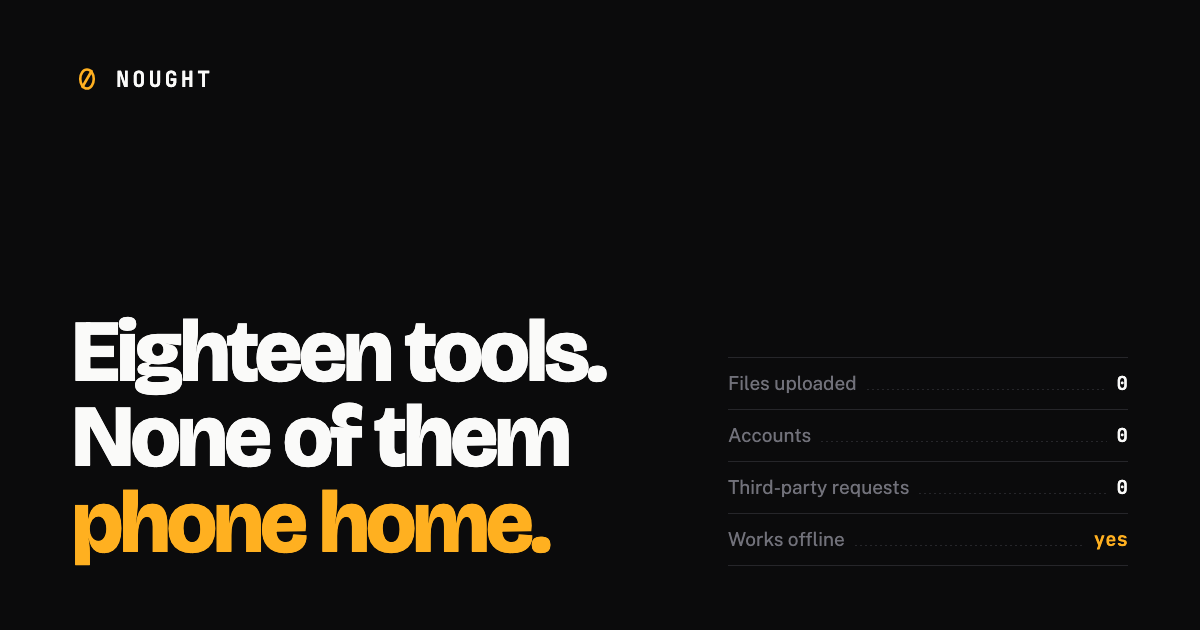
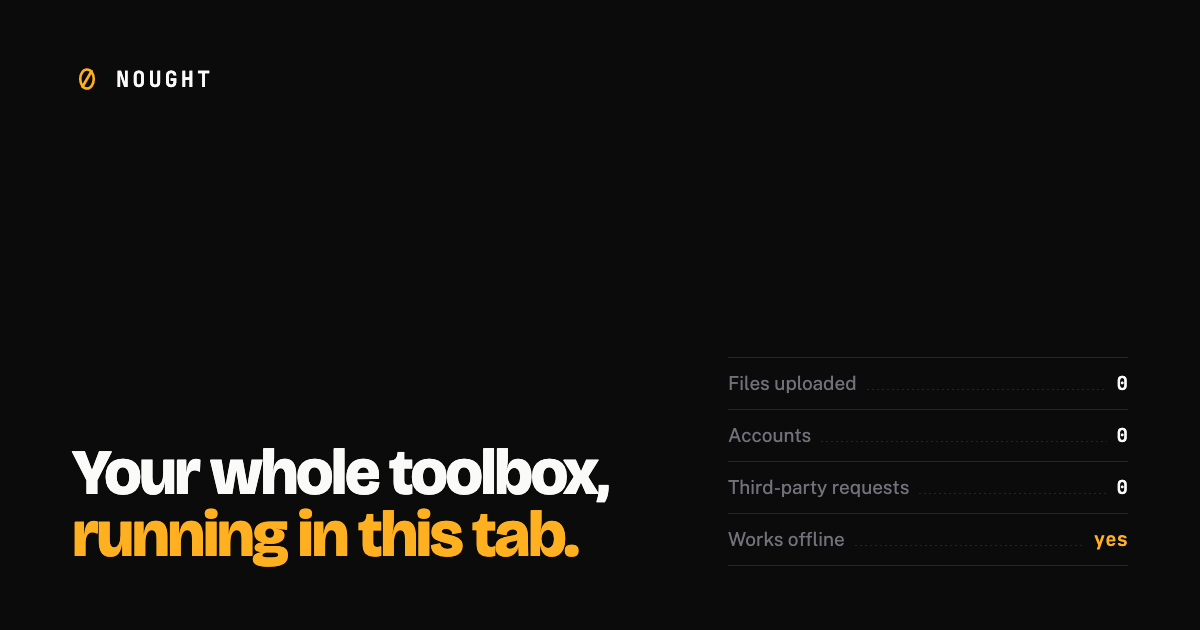
fix: share card still showed the previous headline
og.png is generated from tools/og.html, which kept the reference-index
wording after the landing page moved to the bento. A share card advertising
a headline the page no longer has is worse than a generic one.

Changed region(s): [[0.0617, 0.4825, 0.5242, 0.9048]]

diff --git a/tools/og.html b/tools/og.html
@@ -18,8 +18,8 @@
   .word { font-family:'JetBrains Mono', monospace; font-size:22px; font-weight:600; letter-spacing:3px; }
   main { flex:1; display:flex; align-items:flex-end; justify-content:space-between; gap:56px; }
   h1 {
-    font-family:'Bricolage', sans-serif; font-size:88px; font-weight:800;
-    letter-spacing:-3.4px; line-height:0.97;
+    font-family:'Bricolage', sans-serif; font-size:64px; font-weight:800;
+    letter-spacing:-2.4px; line-height:0.97;
   }
   h1 em { font-style:normal; color:#ffb020; }
   .spec { width:400px; flex:none; }
@@ -42,7 +42,7 @@
     <span class="word">NOUGHT</span>
   </header>
   <main>
-    <h1>Eighteen tools.<br>None of them<br><em>phone home.</em></h1>
+    <h1>Your whole toolbox,<br><em>running in this tab.</em></h1>
     <dl class="spec">
       <div class="spec-row"><dt>Files uploaded</dt><span></span><dd>0</dd></div>
       <div class="spec-row"><dt>Accounts</dt><span></span><dd>0</dd></div>
